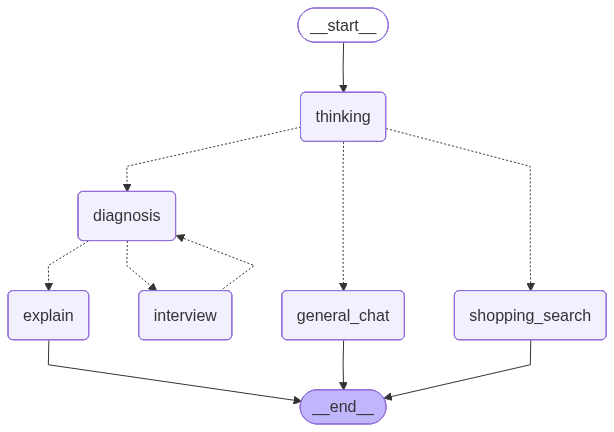
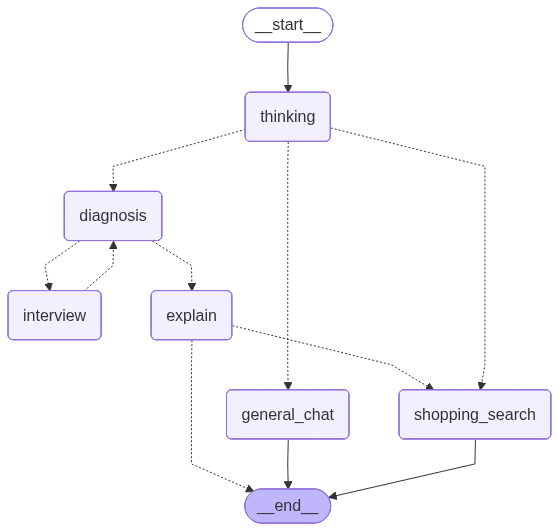
feat: add shopping intent

diff --git a/agent/app/workflow/med_gemma_4b/nodes/thinking_node.py b/agent/app/workflow/med_gemma_4b/nodes/thinking_node.py
@@ -9,6 +9,7 @@ class ThinkingResultSimple(BaseModelV1):
     analysis: str = FieldV1(description="Brief analysis of intent.")
     next_step: Literal['general_chat', 'diagnosis', 'shopping_search']
     language: str = FieldV1(description="Detected language of the user (e.g., 'English', 'Thai', 'Japanese'). Default to 'English'.")
+    shopping_intent: bool = FieldV1(default=False, description="True if user explicitly asks for products, medicine, cream, or treatment.")
 
 class ThinkingNode:
     def __init__(self, llm):
@@ -29,7 +30,8 @@ class ThinkingNode:
         Task: 
         1. Analyze the user's input/intent.
         2. Detect the language of the user (e.g., Thai, English, Chinese, etc.).
-        3. Explicitly state the reasoning for choosing the next step.
+        3. Detect 'shopping_intent': Set to True if user asks for medicine/products/cream, even if routing to 'diagnosis'.
+        4. Explicitly state the reasoning for choosing the next step.
         
         Context: {context}
         """
@@ -60,7 +62,8 @@ class ThinkingNode:
             return {
                 "thinking_process": result_dict.get("analysis", ""),
                 "next_step": result_dict.get("next_step", "general_chat"),
-                "language": result_dict.get("language", "English")
+                "language": result_dict.get("language", "English"),
+                "shopping_intent": result_dict.get("shopping_intent", False)
             }
         except Exception as e:
             # Fallback logic

diff --git a/agent/app/workflow/med_gemma_27b/graph.py b/agent/app/workflow/med_gemma_27b/graph.py
@@ -59,7 +59,19 @@ def build_graph(llm, llm_diagnosis, checkpointer, tavily_tool=None):
     })
     
     workflow.add_edge("general_chat", END)
-    workflow.add_edge("explain", END)
+
+    
+    # Conditional routing for shopping intent
+    def route_explain(state):
+        if state.get("shopping_intent"):
+            return "shopping_search"
+        return END
+
+    workflow.add_conditional_edges("explain", route_explain, {
+        "shopping_search": "shopping_search",
+        END: END
+    })
+    
     workflow.add_edge("shopping_search", END)
 
     return workflow.compile(checkpointer=checkpointer)

diff --git a/agent/app/workflow/med_gemma_4b/graph.py b/agent/app/workflow/med_gemma_4b/graph.py
@@ -64,7 +64,19 @@ def build_graph(llm, llm_diagnosis, checkpointer, tavily_tool=None):
 
 
     workflow.add_edge("general_chat", END)
-    workflow.add_edge("explain", END)
+
+    
+    # Conditional routing for shopping intent
+    def route_explain(state):
+        if state.get("shopping_intent"):
+            return "shopping_search"
+        return END
+
+    workflow.add_conditional_edges("explain", route_explain, {
+        "shopping_search": "shopping_search",
+        END: END
+    })
+    
     workflow.add_edge("shopping_search", END)
 
     return workflow.compile(checkpointer=checkpointer)

diff --git a/agent/README.md b/agent/README.md
@@ -70,3 +70,19 @@ LLM_MODEL_DIAGNOSIS=medgemma:27b
 ## Docker
 
 The provided Dockerfiles (`Dockerfile.win`, `Dockerfile.mac`) are already configured to use Python 3.12.
+
+## Shopping Intent Detection
+
+The agent now features smart **Shopping Intent Detection** powered by the LLM (`gemma3n:e4b` or routing model).
+
+![Shopping Intent Detection](./assets/images/user-shopping-intent.jpg)
+
+### How it works:
+1.  **Thinking Node**: Detects if the user explicitly asks for products, medicine, or treatment (e.g., "I need a cream for this rash").
+2.  **Evaluation Node**: Continuously monitors the diagnosis interview for shopping intent.
+3.  **State Update**: Sets `shopping_intent=True` in the `AgentState`.
+4.  **Automatic Routing**:
+    -   If `shopping_intent` is **True**, the agent automatically transitions to **Shopping Search** after the diagnosis/explanation is complete.
+    -   If **False**, the session ends normally.
+
+This replaces the previous "Human-in-the-Loop" question node, providing a smoother and faster user experience.

diff --git a/README.md b/README.md
@@ -6,6 +6,15 @@ MedMirror is an intelligent, real-time medical analysis platform that transforms
 
 ---
 
+## Table of Contents
+
+- [Medical Agent](./agent/README.md)
+- [Cross Platform Application](./med_mirror_mobile/README.md)
+- [Skin Detection](./segmentation/README.md)
+- [APIs](./apis/README.md)
+
+---
+
 ## 🌟 Key Features
 
 ### 🩺 **Real-Time Skin Analysis**

diff --git a/apis/README.md b/apis/README.md
@@ -1,0 +1,6 @@
+# APIs
+
+## Table of Contents
+
+- Collections
+    - Agent

diff --git a/segmentation/README.md b/segmentation/README.md
@@ -1,0 +1,1 @@
+# Skin Detection
